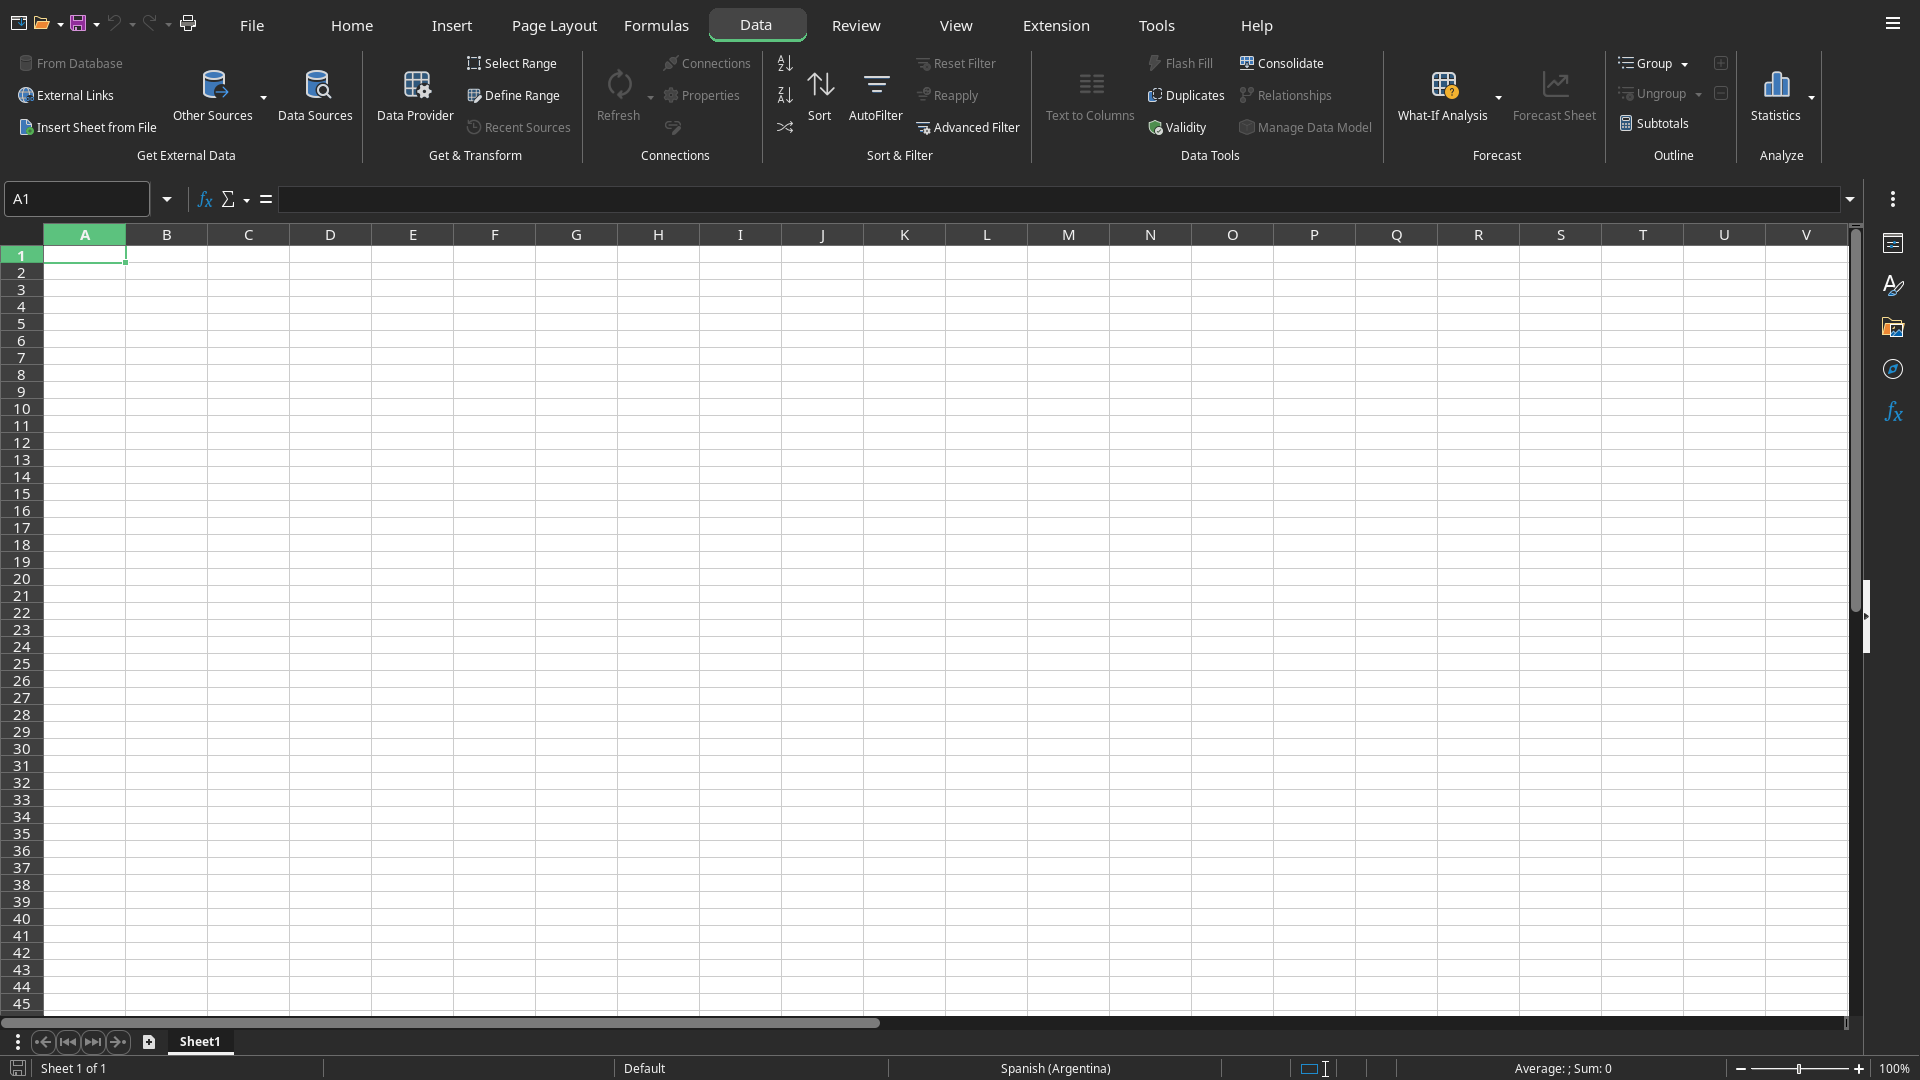
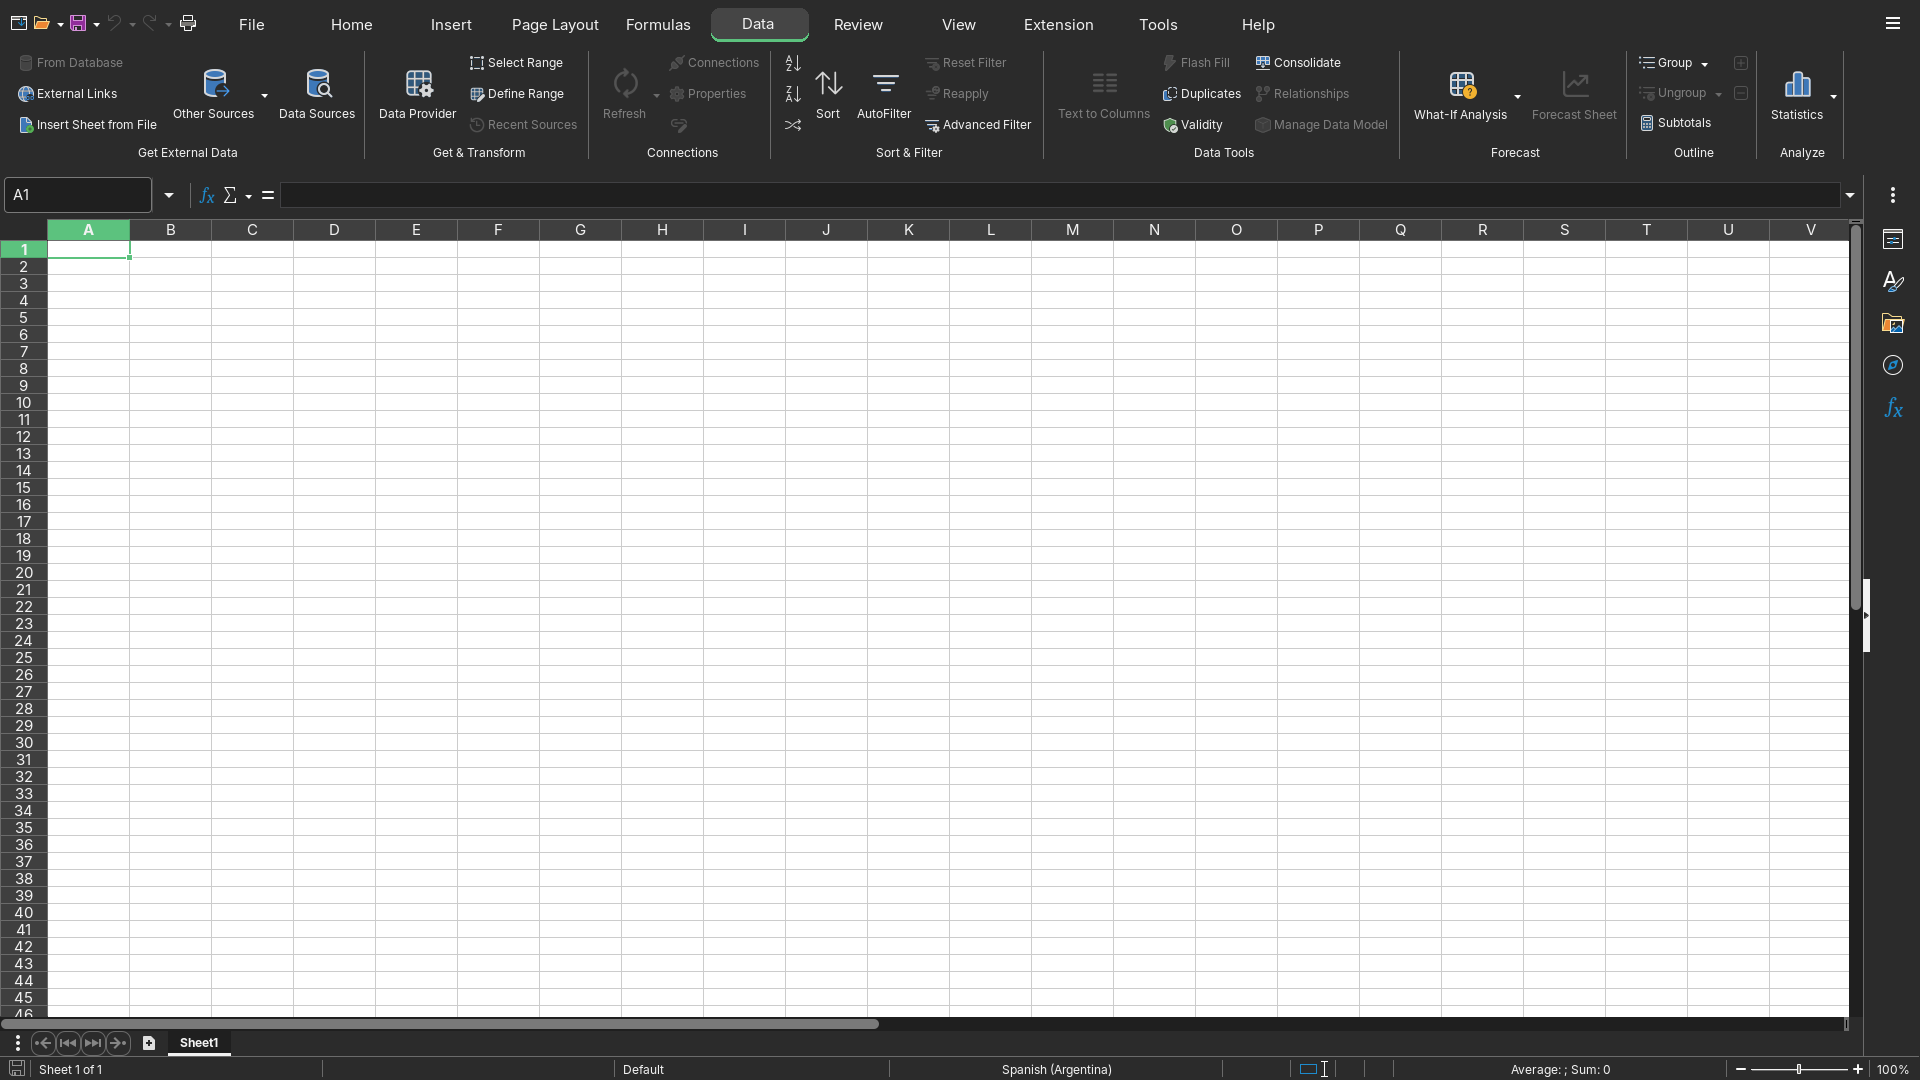
docs(product): redo the dev screenshots with the Inter UI font

diff --git a/README.md b/README.md
@@ -50,7 +50,8 @@ Excel 365, section by section and button by button.
    `python3 -I product/icons/build_theme.py install --instdir instdir`.
 5. Open Calc with the product look:
    `product/dev/calc.sh light --profile ~/boost-profile` (or `dark`). The script
-   rewrites that profile on each run.
+   rewrites that profile on each run. The UI font is Inter (bundled, SIL OFL);
+   `product/dev/calc.sh light --font system` keeps the desktop's font.
 
 ## Tests
 

diff --git a/product/docs/screenshots/README.md b/product/docs/screenshots/README.md
@@ -1,6 +1,7 @@
 # Screenshots
 
-Calc in Tabbed Office mode at 1920 px, taken on this build on 2026-10-16.
+Calc in Tabbed Office mode at 1920 px, taken on this build on 2026-10-20.
+The UI font is Inter.
 
 Greyed buttons are placeholders: features to build later. The full list is in
 [calc-ribbon-tabs.md](../calc-ribbon-tabs.md) and
